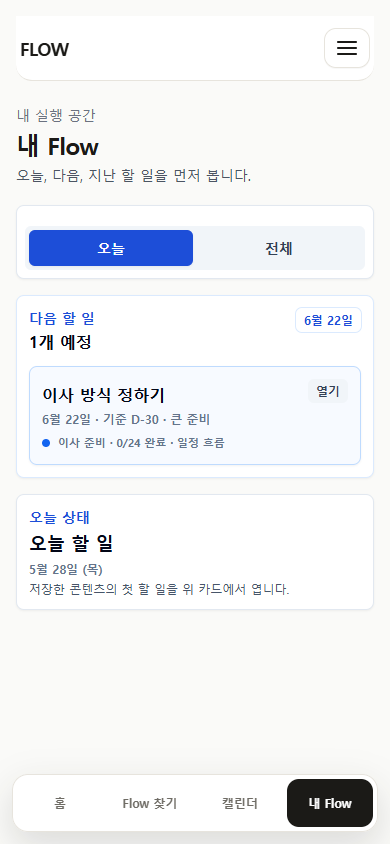
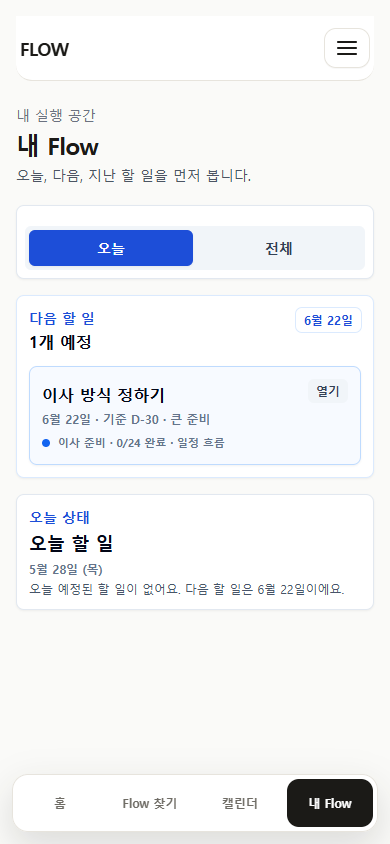
Refresh P10 evidence after P11 status copy

Changed region(s): [[0.0615, 0.6777, 0.8615, 0.7085]]

diff --git a/docs/content-audit/2026-07-06-claude-design-p10-final-review-package/review.html b/docs/content-audit/2026-07-06-claude-design-p10-final-review-package/review.html
@@ -30,7 +30,7 @@
   <main>
     <h1>FlowMe P10 Final Review Package</h1>
     <p class="lead">P7/P8/P9 기준선 위에 P10-01~P10-07 guardrail 단일화, public share primary path, My Flow continuation, Calendar group header, 짧은 컨트롤 라벨, GitHub link base, input value raw ISO 정책을 고정하기 위한 모바일 390px screenshot/evidence 패키지입니다.</p>
-    <p class="meta">UI baseline commit: 105bf6c · Package generated from: 105bf6c · Package commit ref: git commit containing this generated package</p>
+    <p class="meta">UI baseline commit: ffab3c3 · Package generated from: ffab3c3 · Package commit ref: git commit containing this generated package</p>
     <section class="summary">
       <div class="stat"><b>26</b><span>screenshots</span></div>
       <div class="stat"><b>0</b><span>normal internal hits</span></div>
@@ -363,7 +363,7 @@
         <div><dt>raw ISO</dt><dd>0</dd></div>
         <div><dt>input ISO</dt><dd>0</dd></div>
         <div><dt>input ISO exempt</dt><dd>0</dd></div>
-        <div><dt>scroll</dt><dd>560</dd></div>
+        <div><dt>scroll</dt><dd>544</dd></div>
         <div><dt>purpose</dt><dd>-</dd></div>
       </dl>
     </article>

diff --git a/docs/content-audit/2026-07-06-claude-design-p10-final-review-package/audit.md b/docs/content-audit/2026-07-06-claude-design-p10-final-review-package/audit.md
@@ -44,8 +44,8 @@ P11-02 keeps the UI unchanged and strengthens the evidence layer. The capture ou
 ```json
 {
   "totalScreenshots": 26,
-  "uiBaselineCommit": "105bf6c",
-  "packageGeneratedFromCommit": "105bf6c",
+  "uiBaselineCommit": "ffab3c3",
+  "packageGeneratedFromCommit": "ffab3c3",
   "packageCommitRef": "git commit containing this generated package",
   "normalRouteInternalHitCount": 0,
   "normalRouteSourceSlugHitCount": 0,
@@ -64,7 +64,7 @@ P11-02 keeps the UI unchanged and strengthens the evidence layer. The capture ou
   "normalRouteRowControlAccessibleNameSampleCount": 4,
   "normalRouteRowControlAccessibleNameContextCount": 4,
   "normalRouteQueueLabelScope": "my-flow-queue-label-surfaces",
-  "normalRouteQueueLabelCount": 8,
+  "normalRouteQueueLabelCount": 9,
   "normalRouteLegacyOverdueLabelCount": 0,
   "normalRouteHorizontalOverflowCount": 0,
   "fieldWorkbenchRowDetailSourceLinkCount": 0,
@@ -236,8 +236,8 @@ The restart source/export frame and bottom frame must remain distinct:
 
 ## Commit Metadata
 
-- UI baseline commit: `105bf6c`
-- Package generated from commit: `105bf6c`
+- UI baseline commit: `ffab3c3`
+- Package generated from commit: `ffab3c3`
 - Package commit ref: `git commit containing this generated package`
 
 ## Residual Risk

diff --git a/docs/content-audit/2026-07-06-claude-design-p10-final-review-package/prompt-ko.md b/docs/content-audit/2026-07-06-claude-design-p10-final-review-package/prompt-ko.md
@@ -40,8 +40,8 @@
 ```json
 {
   "totalScreenshots": 26,
-  "uiBaselineCommit": "105bf6c",
-  "packageGeneratedFromCommit": "105bf6c",
+  "uiBaselineCommit": "ffab3c3",
+  "packageGeneratedFromCommit": "ffab3c3",
   "packageCommitRef": "git commit containing this generated package",
   "normalRouteInternalHitCount": 0,
   "normalRouteSourceSlugHitCount": 0,
@@ -60,7 +60,7 @@
   "normalRouteRowControlAccessibleNameSampleCount": 4,
   "normalRouteRowControlAccessibleNameContextCount": 4,
   "normalRouteQueueLabelScope": "my-flow-queue-label-surfaces",
-  "normalRouteQueueLabelCount": 8,
+  "normalRouteQueueLabelCount": 9,
   "normalRouteLegacyOverdueLabelCount": 0,
   "normalRouteHorizontalOverflowCount": 0,
   "fieldWorkbenchRowDetailSourceLinkCount": 0,

diff --git a/docs/content-audit/2026-07-06-claude-design-p10-final-review-package/README.md b/docs/content-audit/2026-07-06-claude-design-p10-final-review-package/README.md
@@ -1,9 +1,9 @@
 # FlowMe Claude Design P10 Final Review Package
 
-- Generated: 2026-07-06T12:41:41.250Z
+- Generated: 2026-07-06T13:24:15.785Z
 - Branch: `codex/flowme-uxui-second-loop`
-- UI baseline commit: `105bf6c`
-- Package generated from commit: `105bf6c`
+- UI baseline commit: `ffab3c3`
+- Package generated from commit: `ffab3c3`
 - Package commit ref: `git commit containing this generated package`
 - Viewport: 390x844
 
